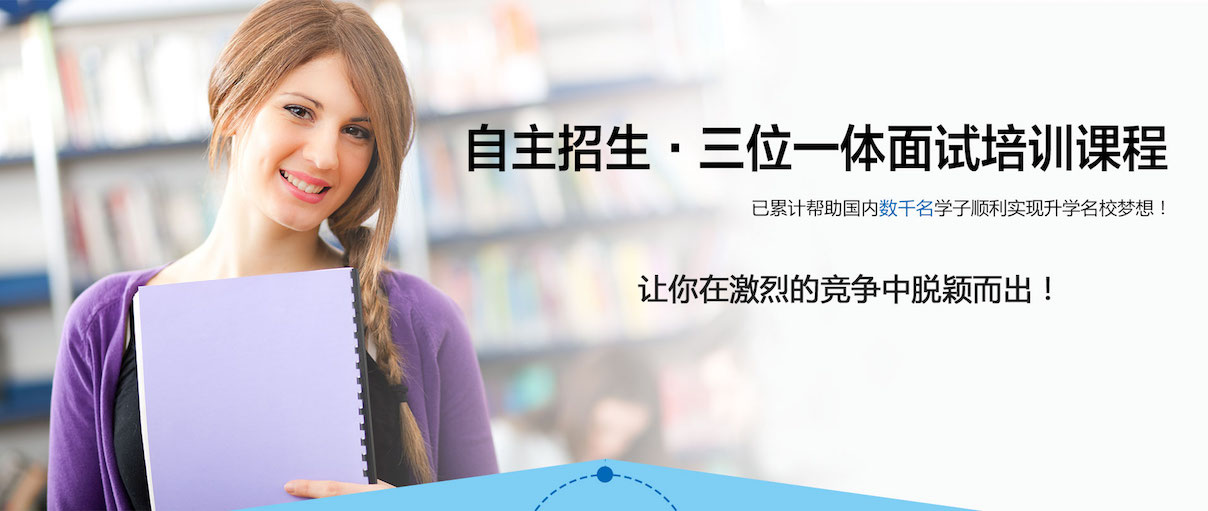
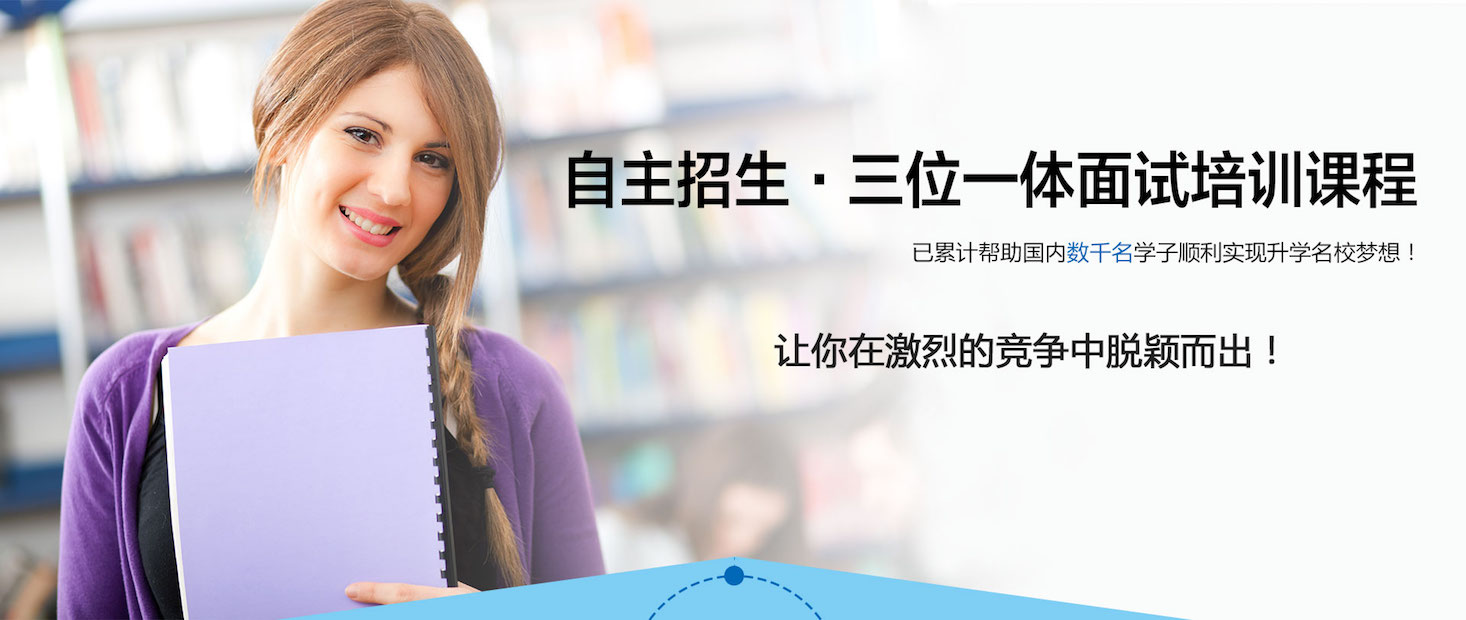
tijiao

diff --git a/NoProject/src/main/webapp/css/style.css b/NoProject/src/main/webapp/css/style.css
@@ -268,19 +268,19 @@ li.li-last .nav-tx{
     }
     #module1{
         background: url("../images/module1-1.jpg") no-repeat top center;
-        height: 511px;
+        height: 620px;
     }
     #module2{
         background: url("../images/module2-1.jpg") no-repeat top center;
-        height: 518px;
+        height: 550px;
     }
-    .module2-jz{  margin: 0 auto;  height: 518px;  width: 1000px;  position: relative;  z-index: 5;  }
-    .wenhao1{  position: absolute;  cursor: pointer;  top: 290px;  left: 206px;  }
-    .wenhao2{  position: absolute;  cursor: pointer;  top: 290px;  left: 444px;  }
+    .module2-jz{  margin: 0 auto;  height: 550px;  width: 1000px;  position: relative;  z-index: 5;  }
+    .wenhao1{  position: absolute;  cursor: pointer;  top: 290px;  left: 186px;  }
+    .wenhao2{  position: absolute;  cursor: pointer;  top: 290px;  left: 424px;  }
     .wenhao3{  position: absolute;  cursor: pointer;  top: 290px;  right: 248px;  }
-    .wenhao4{  position: absolute;  cursor: pointer;  top: 290px;  right: 26px;  }
+    .wenhao4{  position: absolute;  cursor: pointer;  top: 290px;  right: 16px;  }
     .module2-btn1 {  position: absolute;  cursor: pointer;  top: 390px;  left: 396px;  }
-    .wenhao1 img,.wenhao2 img,.wenhao3 img,.wenhao4 img,.module2-btn1 img{width: 60%;}
+    .wenhao1 img,.wenhao2 img,.wenhao3 img,.wenhao4 img,.module2-btn1 img{width: 76.6%;}
 
     #module3{
         background: url("../images/module3-1.jpg") no-repeat top center;
@@ -308,10 +308,10 @@ li.li-last .nav-tx{
 
     #module6{
         background: url("../images/module6-1.jpg") no-repeat top center;
-        height: 624px;
+        height: 708px;
     }
-    .module6-jz{  margin: 0 auto;  height: 624px;  width: 1000px;  position: relative;  z-index: 5;  }
-    .module6-btn1 {  position: absolute;  cursor: pointer;  top: 430px;  left: 446px;  }
+    .module6-jz{  margin: 0 auto;  height: 708px;  width: 1000px;  position: relative;  z-index: 5;  }
+    .module6-btn1 {  position: absolute;  cursor: pointer;  top: 500px;  left: 446px;  }
     .module6-btn1 img {width:67.5% }
     #module7{
         background: url("../images/module7-1.jpg") no-repeat top center;
